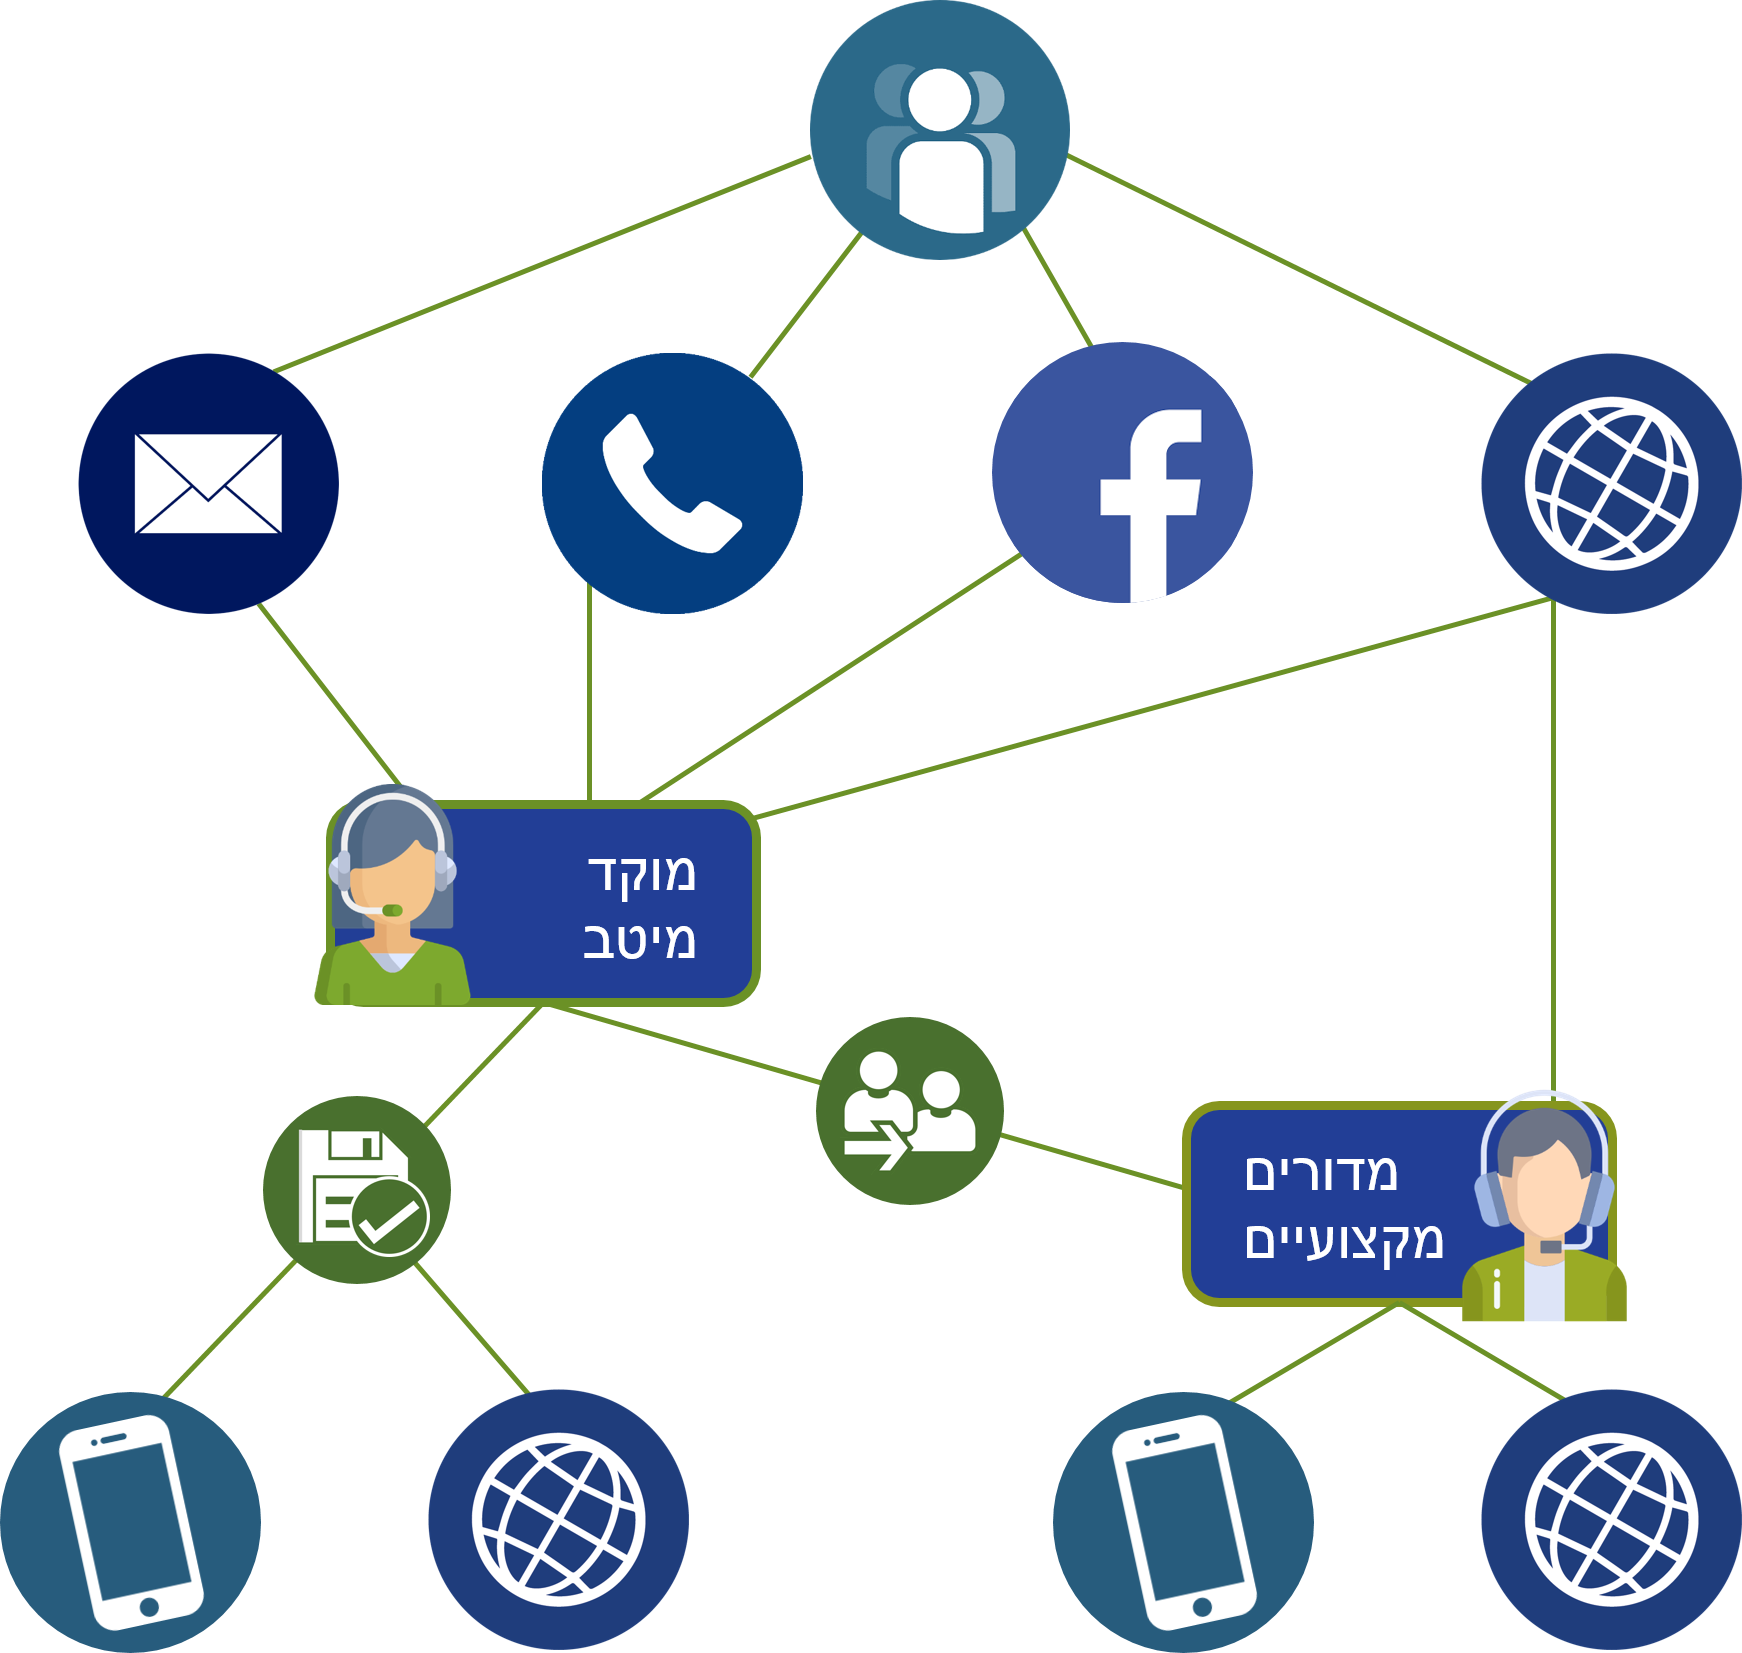
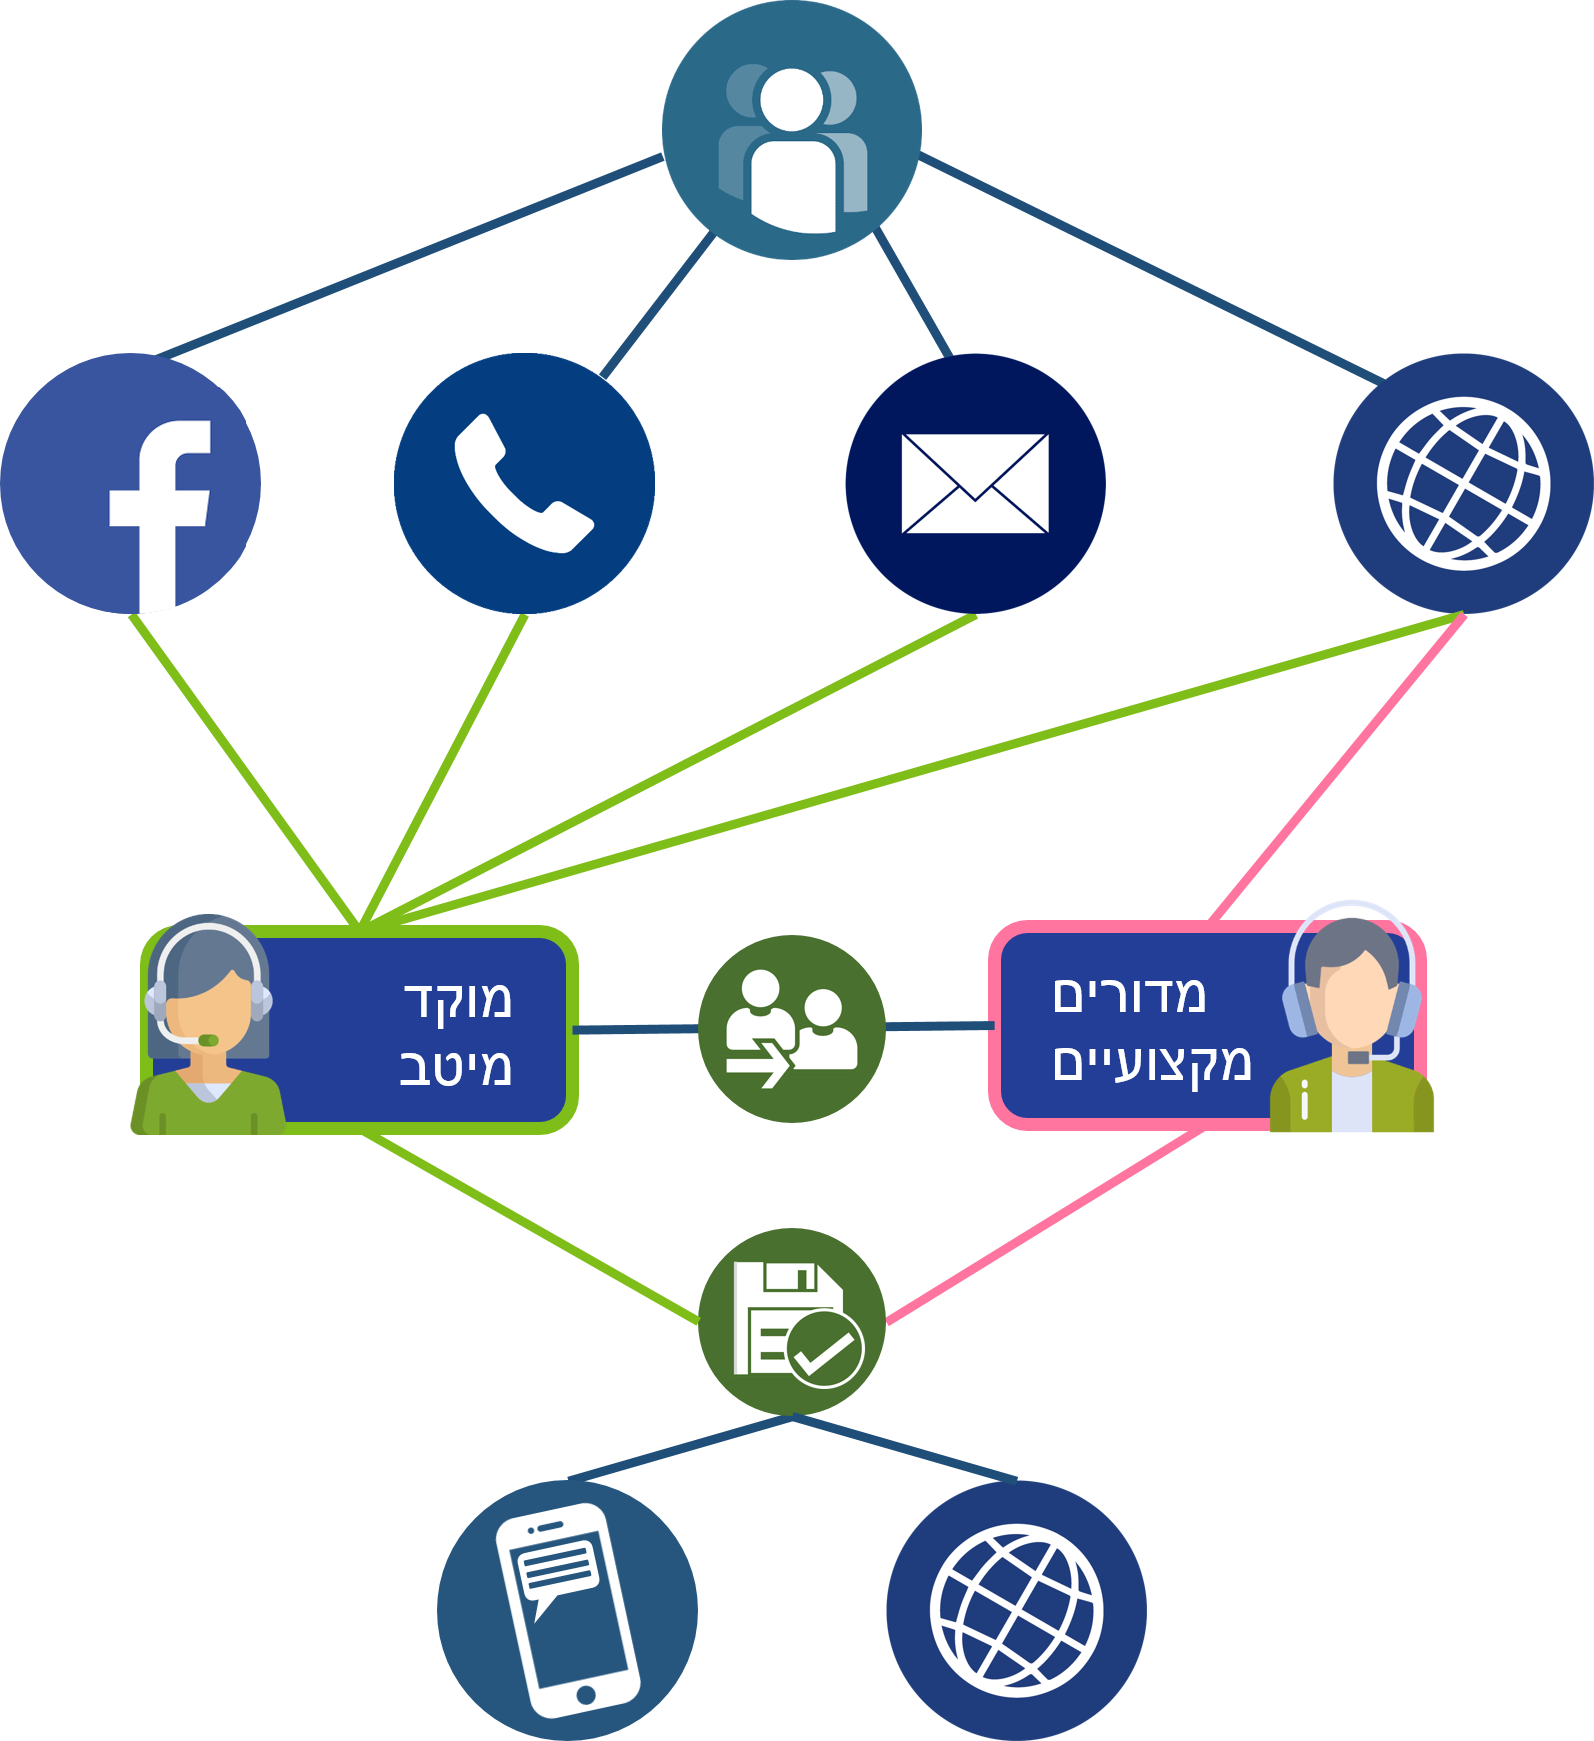
commit

diff --git a/flowchart.html b/flowchart.html
@@ -62,22 +62,22 @@
             <div id="plate8" class="plate connection-plate"></div>
 
             <svg class="lines" version="1.1" preserveAspectRatio="xMinYMin meet">
-                <line x1="50%" y1="20%" x2="60%" y2="28%" />
-                <line x1="50%" y1="20%" x2="40%" y2="28%" />
-                <line x1="50%" y1="20%" x2="80%" y2="28%" />
-                <line x1="50%" y1="20%" x2="20%" y2="28%" />
-
-                <line x1="58%" y1="36%" x2="30%" y2="48%" />
-                <line x1="40%" y1="38%" x2="27%" y2="48%" />
-                <line x1="20%" y1="38%" x2="26%" y2="48%" />
-                <line x1="80%" y1="38%" x2="33%" y2="48%" />
-
-                <line x1="80%" y1="38%" x2="68%" y2="50%" />
-                <line x1="75%" y1="53%" x2="52%" y2="68%" />
-                <line x1="25%" y1="53%" x2="48%" y2="68%" />
-                <line x1="50%" y1="70%" x2="38%" y2="82%" />
-                <line x1="30%" y1="52%" x2="68%" y2="52%" />
-                <line x1="50%" y1="70%" x2="62%" y2="82%" />
+                <line class="blue" x1="50%" y1="20%" x2="60%" y2="28%" />
+                <line class="blue" x1="50%" y1="20%" x2="40%" y2="28%" />
+                <line class="blue" x1="50%" y1="20%" x2="80%" y2="28%" />
+                <line class="blue" x1="50%" y1="20%" x2="20%" y2="28%" />
+                
+                <line class="green" x1="58%" y1="36%" x2="30%" y2="48%" />
+                <line class="green" x1="40%" y1="38%" x2="27%" y2="48%" />
+                <line class="green" x1="20%" y1="38%" x2="26%" y2="48%" />
+                <line class="green" x1="80%" y1="38%" x2="33%" y2="48%" />
+                
+                <line class="pink" x1="80%" y1="38%" x2="68%" y2="50%" />
+                <line class="pink" x1="75%" y1="53%" x2="52%" y2="68%" />
+                <line class="green" x1="25%" y1="53%" x2="48%" y2="68%" />
+                <line class="blue" x1="50%" y1="70%" x2="38%" y2="82%" />
+                <line class="blue" x1="30%" y1="52%" x2="68%" y2="52%" />
+                <line class="blue" x1="50%" y1="70%" x2="62%" y2="82%" />
             </svg>
             <div id="check-btn" class="check-btn">בדוק</div>
         </div>

diff --git a/indexCode.js b/indexCode.js
@@ -1531,7 +1531,7 @@ function interactionManager() {
                 $("#typeable").focus();
                 $("#typeable").on("change", function (event) {
                     correctInput = matContent[currChapter][currPage][currSection]["correctInput"];
-                    if ($(this).val() === correctInput || (correctInput === "any" && $(this).val())) {
+                    if ($(this).val().includes(correctInput) || (correctInput === "any" && $(this).val())) {
                         $(this).css("border", "");
                         $(this).val("");
                         showNextSection();
@@ -1715,8 +1715,15 @@ function changeColor(event) {
             programmer: Shira Shmuely
             date: 25/10/2020
 */
+var isCursorFlipped = false;
 function setFalseCursorLocation(interactionTop, interactionRight, interactionWidth, interactionHeight) {
     $("#false-cursor").show();
+    if (Number(interactionRight.slice(0, -1)) > 97) {
+        isCursorFlipped = true;
+        $("#false-cursor").css("animation", "clickThisFlipped 2s infinite");
+    } else if (isCursorFlipped) {
+        $("#false-cursor").css("animation", "clickThis 2s infinite");
+    }
     $("#false-cursor").css({
         "right": "calc(" + interactionRight + " + " + interactionWidth + ")",
         "top": "calc(" + interactionTop + " + " + interactionHeight + ")"

diff --git a/indexStyle.css b/indexStyle.css
@@ -102,6 +102,18 @@
   }
 }
 
+@keyframes clickThisFlipped {
+  0% {
+    transform: translate3d(60px, -10px, 0) rotateY(180deg);
+  }
+  50% {
+    transform: translate3d(70px, -5px, 0px) rotateY(180deg);
+  }
+  100% {
+    transform: translate3d(60px, -10px, 0) rotateY(180deg);
+  }
+}
+
 @keyframes pulse {
   0% {
     transform: scale(1);

diff --git a/index.html b/index.html
@@ -148,7 +148,7 @@
     </div>
     <div class="lomda-title">
         <h1>לומדת</h1>
-        <img class="sap-icon" src="media/indexMedia/crmLogo.jpg"/>
+        <img src="media/indexMedia/crmLogo.jpg"/>
     </div>
 
     <div id="start-btn" class="start-btn">
